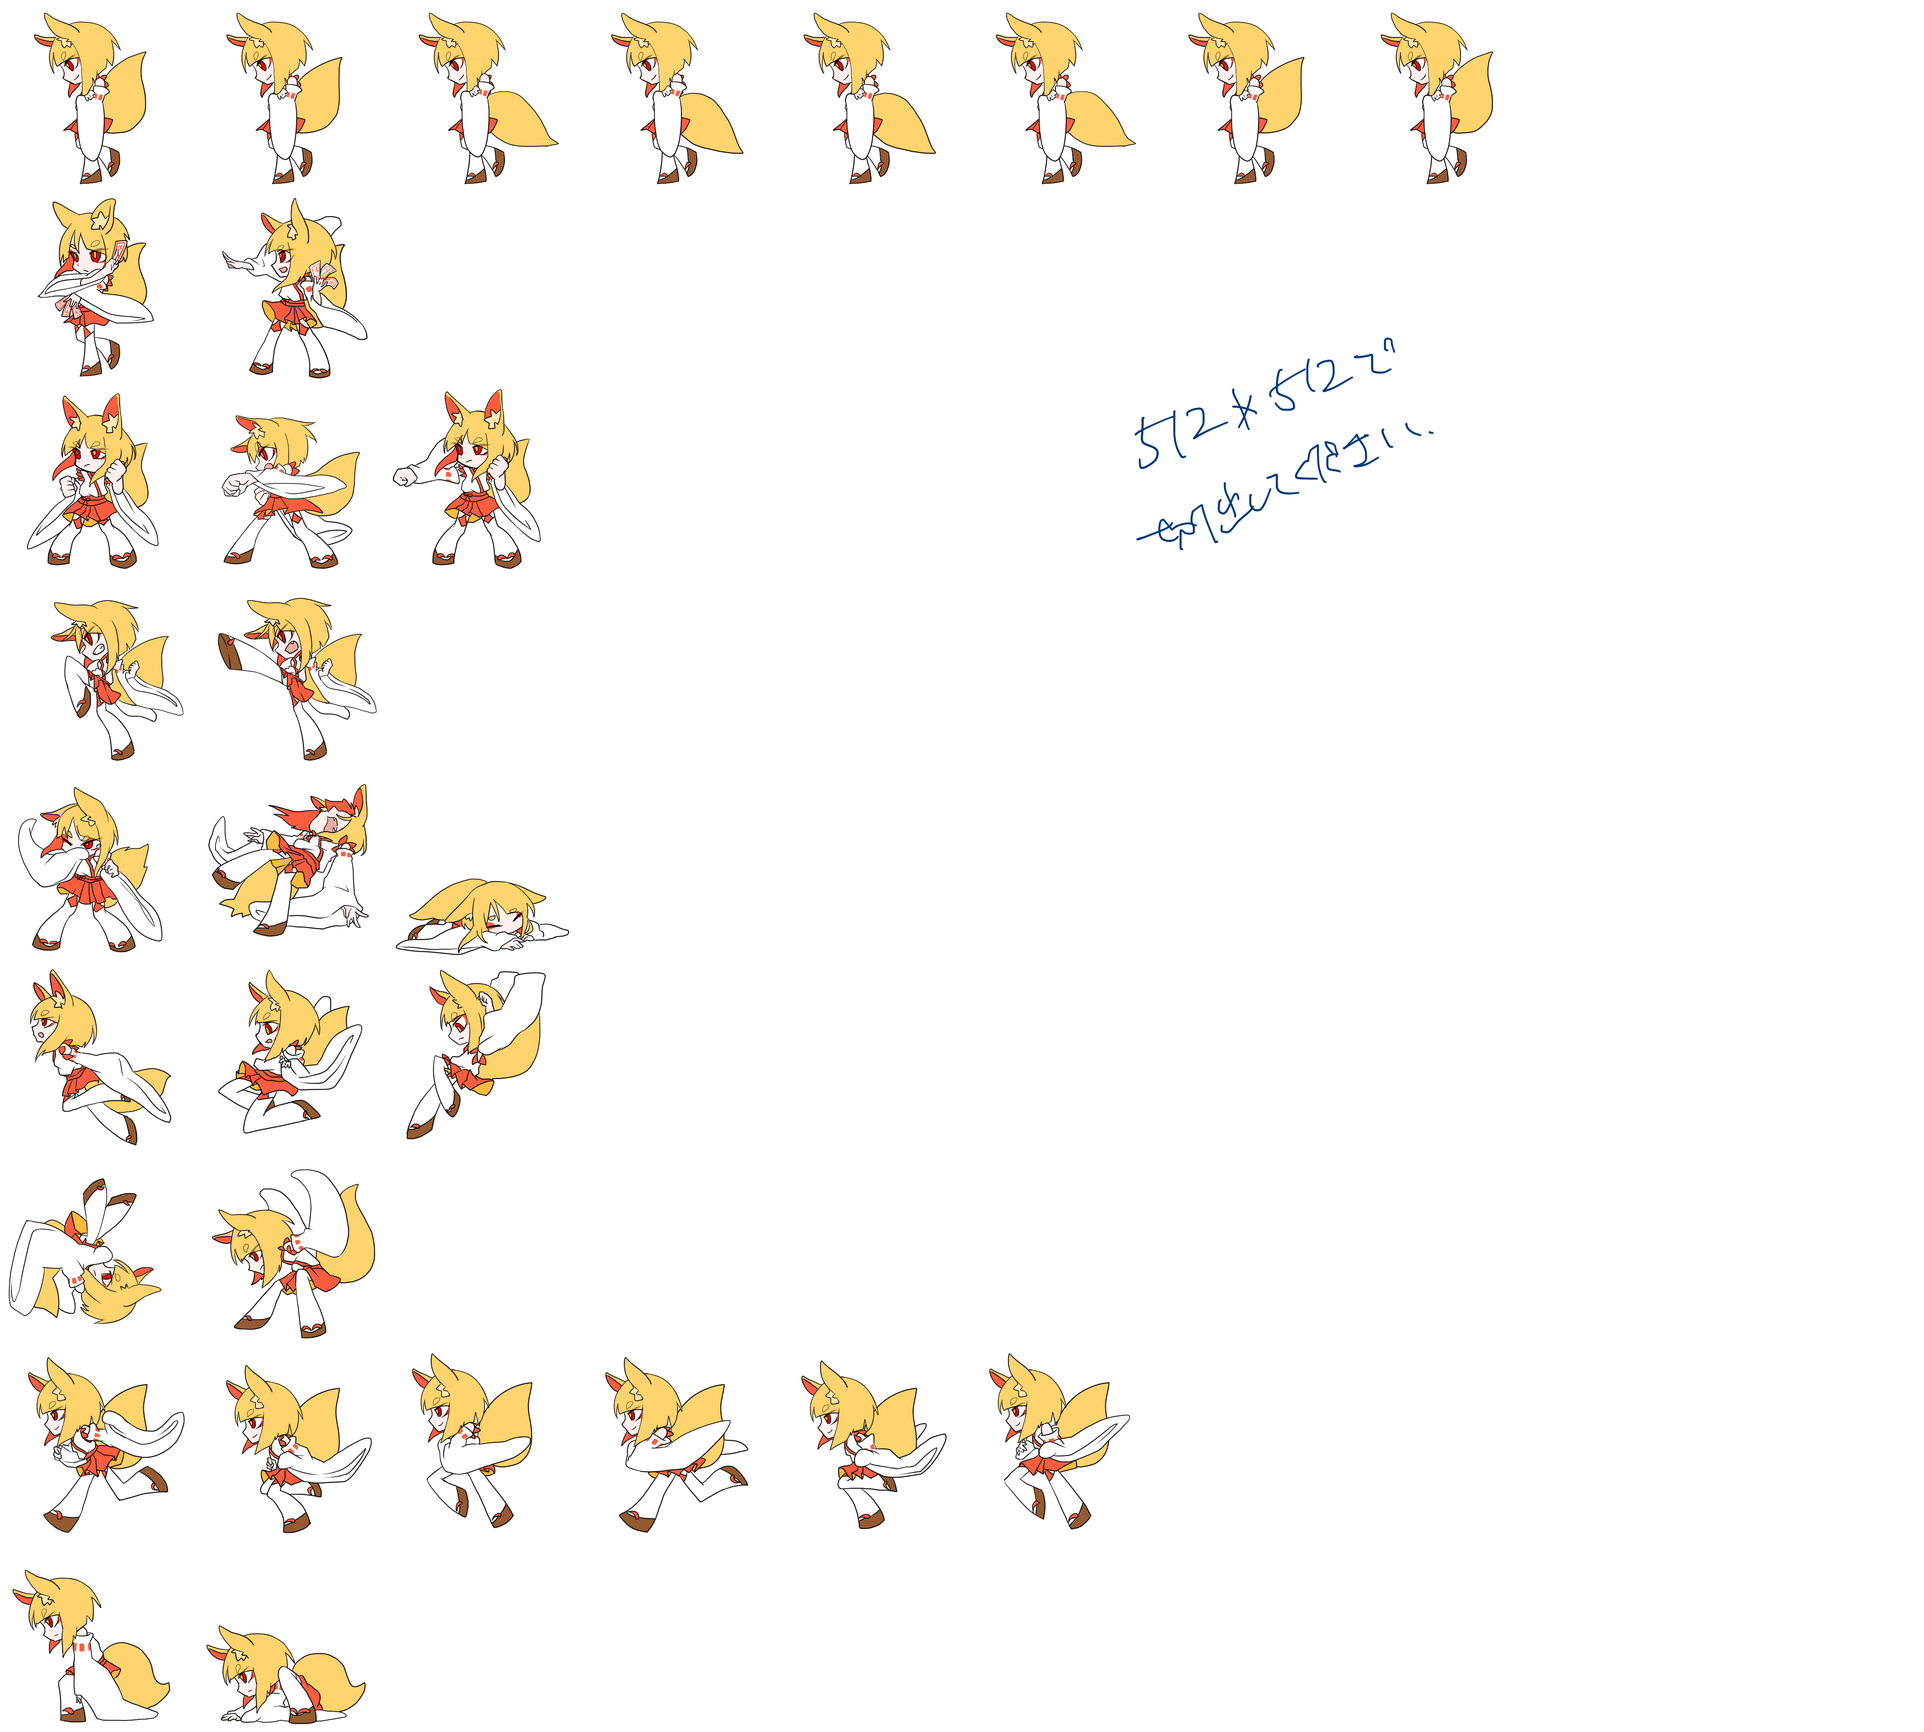
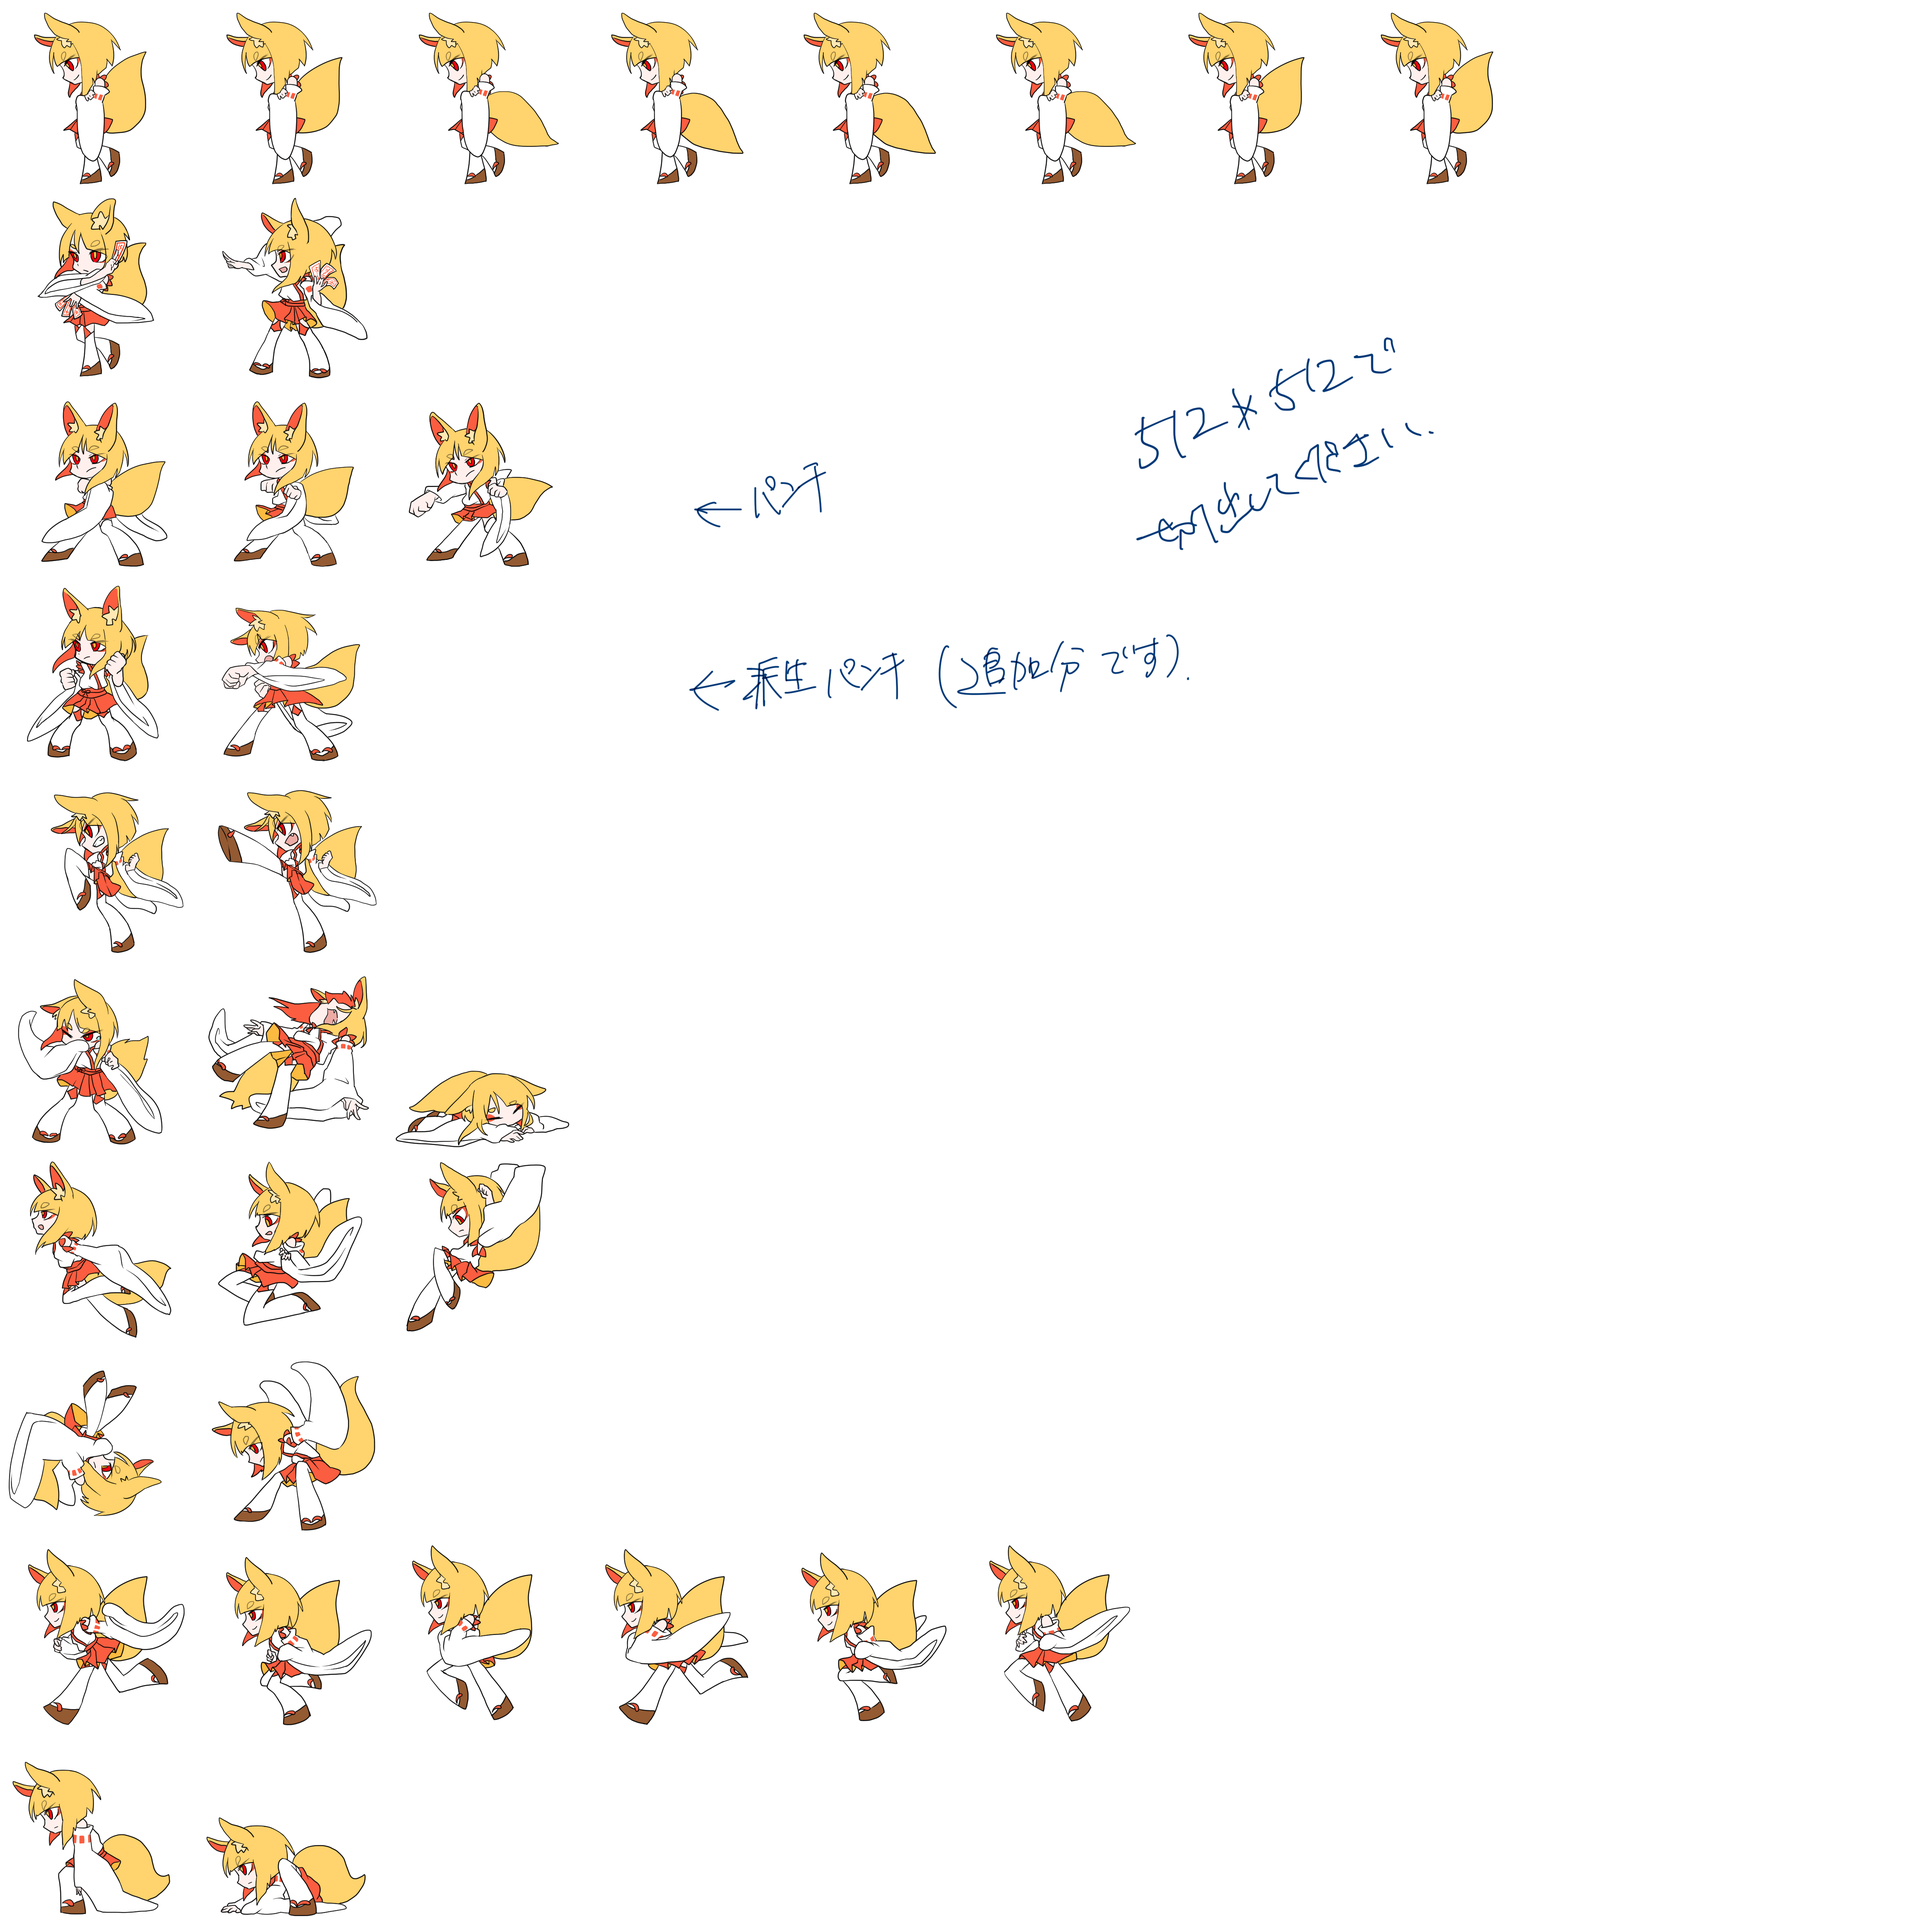
パンチ追加

diff --git a/Hiroshima/MyTaskGame/GameProject/ImageResource.cpp b/Hiroshima/MyTaskGame/GameProject/ImageResource.cpp
@@ -11,41 +11,46 @@ TexAnim _PL_idol[] = {
 	{ 7,5 },
 };
 TexAnim _PL_dash[] = {
-	{ 70,5 },
-	{ 71,5 },
-	{ 72,5 },
-	{ 73,5 },
-	{ 74,5 },
-	{ 75,5 },
-};
-TexAnim _PL_jamp[] = {
-	{ 50,5 },
-	{ 51,5 },
-	{ 52,5 },
-};
-TexAnim _PL_squat[] = {
 	{ 80,5 },
 	{ 81,5 },
+	{ 82,5 },
+	{ 83,5 },
+	{ 84,5 },
+	{ 85,5 },
+};
+TexAnim _PL_jamp[] = {
+	{ 60,5 },
+	{ 61,5 },
+	{ 62,5 },
+};
+TexAnim _PL_squat[] = {
+	{ 90,5 },
+	{ 91,5 },
 };
 TexAnim _PL_punch[] = {
 	{ 20,5 },
 	{ 21,5 },
 	{ 22,20 },
-	{ 20,10 },
+	{ 30,3 },
+	{ 30,2 },
+	{ 31,20 },
+	{ 31,3 },
+	{ 31,2 },
 };
 TexAnim _PL_kick[] = {
-	{ 30,5 },
-	{ 31,20 },
-	{ 30,5 },
+	{ 40,5 },
+	{ 41,20 },
+	{ 40,3 },
+	{ 40,2 },
 };
 TexAnim _PL_damage[] = {
-	{ 40,40 },
+	{ 50,40 },
 };
 TexAnim _PL_fall[] = {
-	{ 40,20 },
-	{ 41,5 },
-	{ 42,80 },
-	{ 42,10 },
+	{ 50,20 },
+	{ 51,5 },
+	{ 52,80 },
+	{ 52,10 },
 };
 TexAnim _PL_bill[] = {
 	{ 10,10 },

diff --git a/Hiroshima/MyTaskGame/GameProject/ImageResource.h b/Hiroshima/MyTaskGame/GameProject/ImageResource.h
@@ -12,7 +12,7 @@ enum  {
 	eAnimKick,
 	eAnimDamage,
 	eAnimFall,
-	eAnimbill,
+	eAnimBill,
 	eAnimKamaMove = 1,
 	eAnimKamaAttack,
 	eAnimKamaKnockBack,
